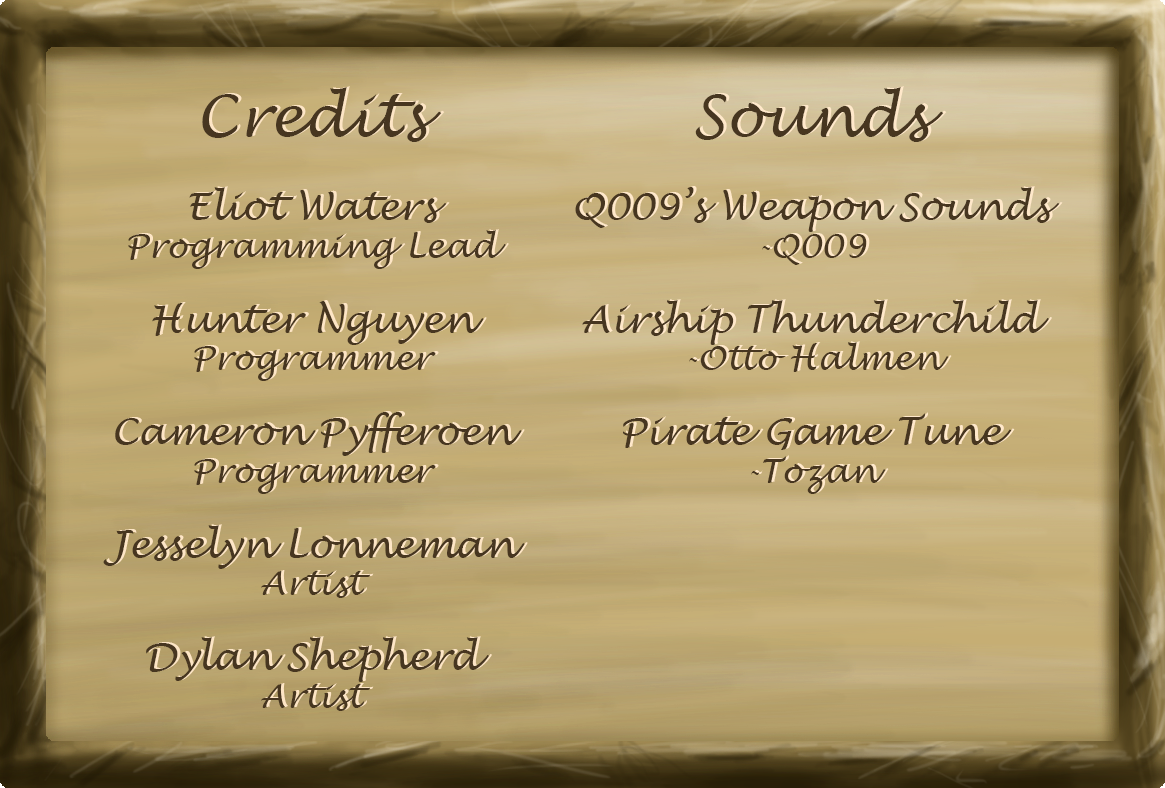
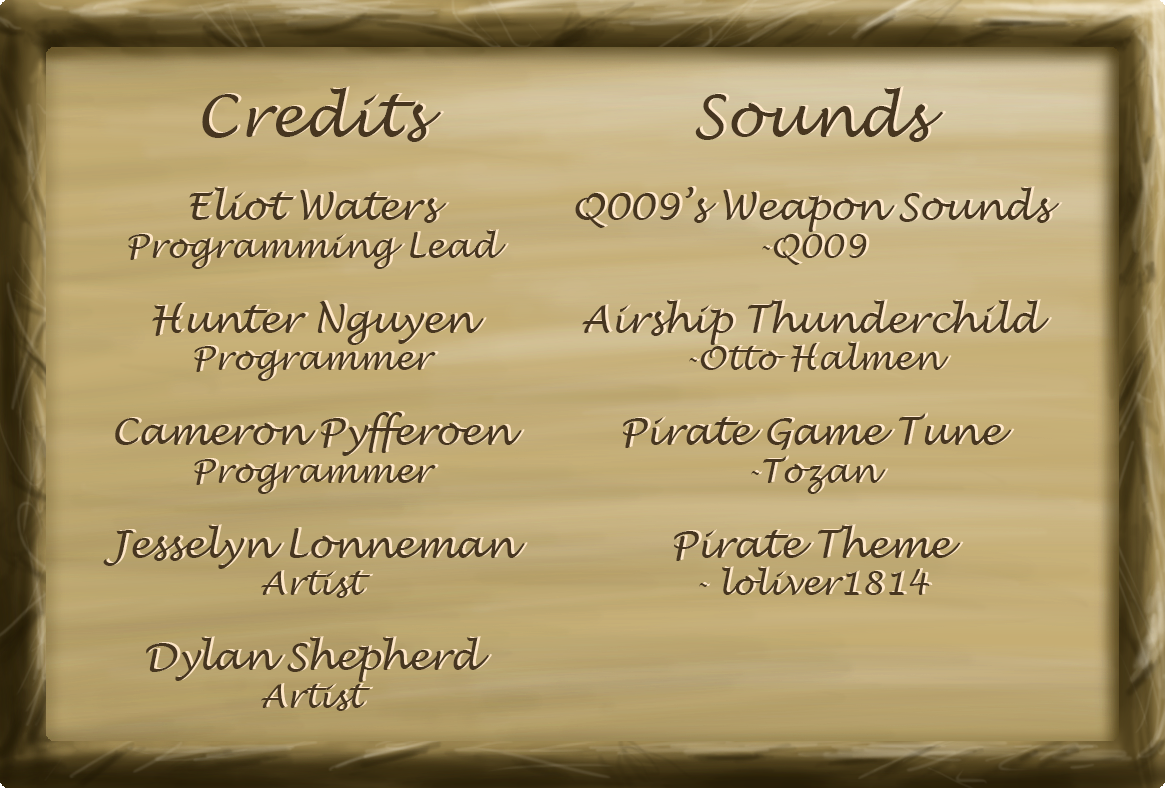
Updated credits

Changed region(s): [[0.5562, 0.6701, 0.8343, 0.7614]]

diff --git a/src/states/Credits.js b/src/states/Credits.js
@@ -20,7 +20,7 @@ class Credits extends Phaser.State {
       this.world.centerY, 
       'creditsMenu');
     this.board.anchor.setTo(0.5, 0.5);
-    this.backButton = this.game.add.button(this.world.centerX + 240, this.world.centerY + 180, 'backButton', this.sendToMain, this, 1, 0, 1, 0);
+    this.backButton = this.game.add.button(this.world.centerX + 250, this.world.centerY + 210, 'backButton', this.sendToMain, this, 1, 0, 1, 0);
     this.game.fullscreen = this.game.add.button(0, 0, 'fullScreen', this.makeFullScreen, this, 1, 0, 1, 0)
     this.backButton.anchor.setTo(0.5, 0);
 
